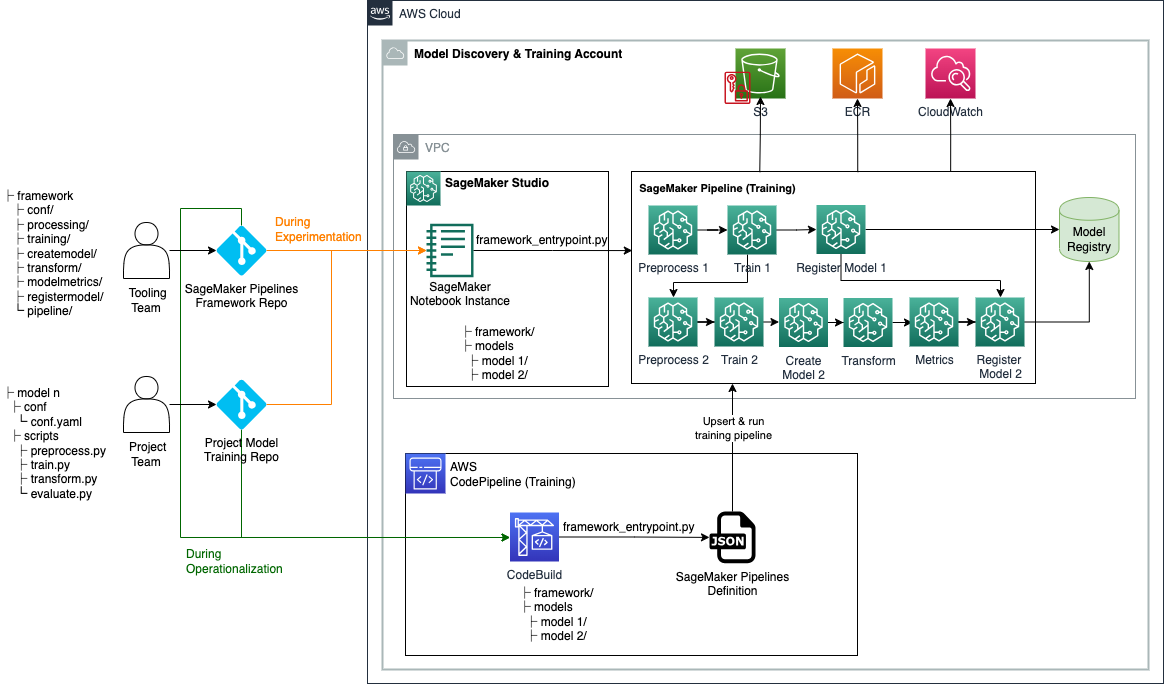
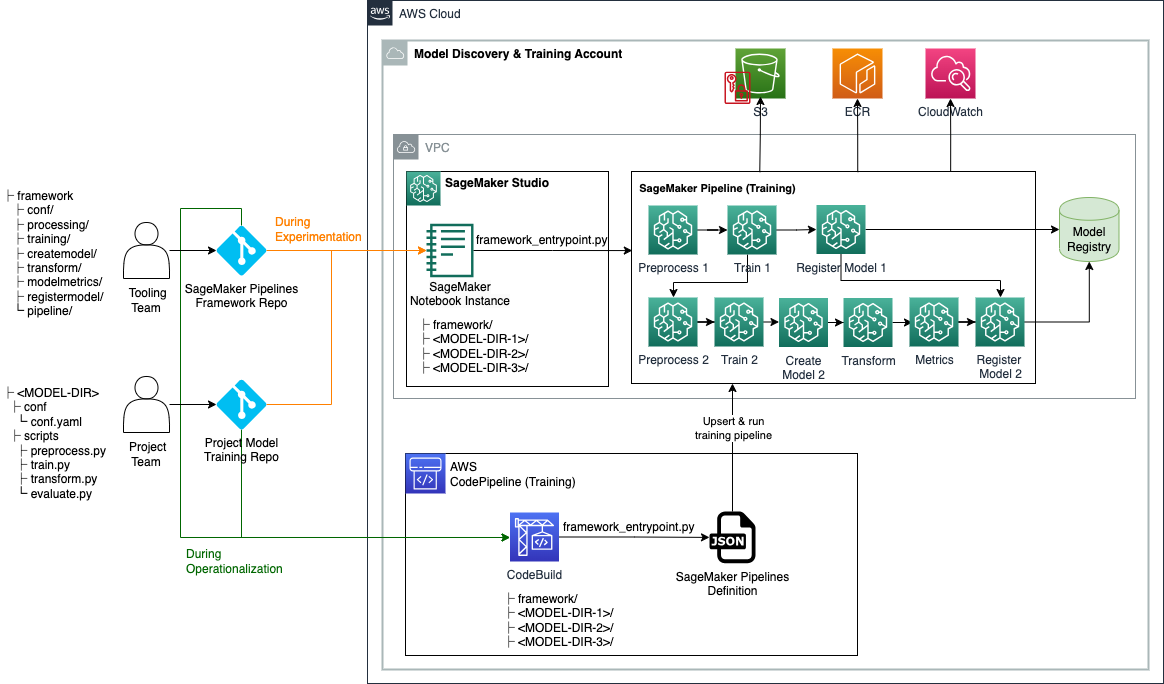
updating arch diagram and readme

Changed region(s): [[0.433, 0.8596, 0.5258, 0.9518], [0.3711, 0.4605, 0.4639, 0.5526], [0.0, 0.5526, 0.0928, 0.5833]]

diff --git a/README.md b/README.md
@@ -33,7 +33,7 @@ Follow the steps below in order to deploy the solution:
     ```
     <MODEL-DIR-REPO>
     .
-    ├── MODEL-DIR
+    ├── <MODEL-DIR>
     |   ├── conf
     |   |   └── conf.yaml
     |   └── scripts
@@ -88,9 +88,9 @@ Follow the steps below in order to deploy the solution:
 
     Note:
 
-        a. For **single-model** use cases: `SMP_MODEL_CONFIGPATH="lgbm/conf/conf.yaml" `
+        a. For single-model use cases: SMP_MODEL_CONFIGPATH="<MODEL-DIR>/conf/conf.yaml" 
 
-        b. For **multi-model**  use cases: `SMP_MODEL_CONFIGPATH="*/conf/conf.yaml"  `
+        b. For multi-model  use cases: SMP_MODEL_CONFIGPATH="*/conf/conf.yaml"  
 
     During experimentation (i.e., local testing), you can specify environment variables inside env.env file; and then export them by executing the following command in your terminal: 
     
